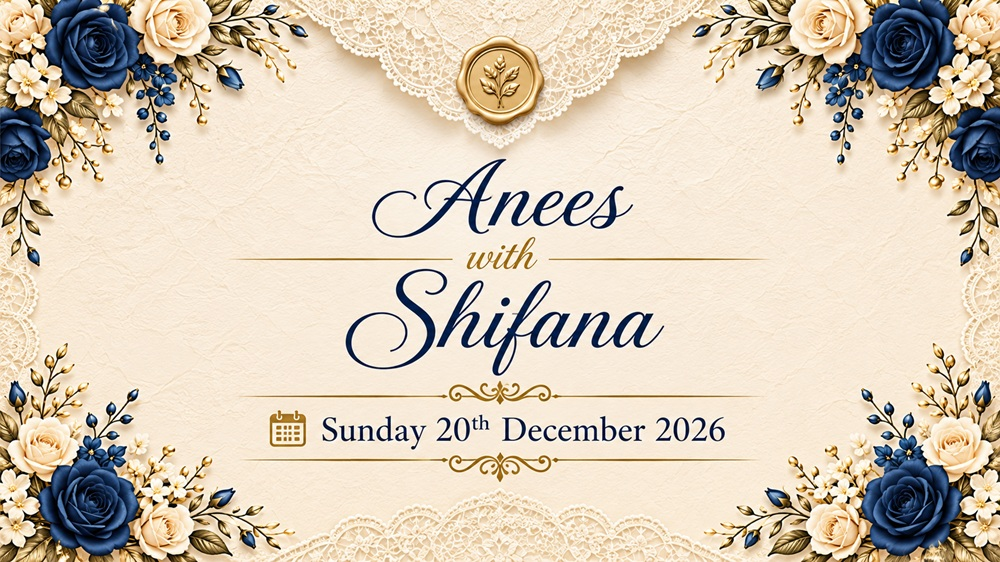
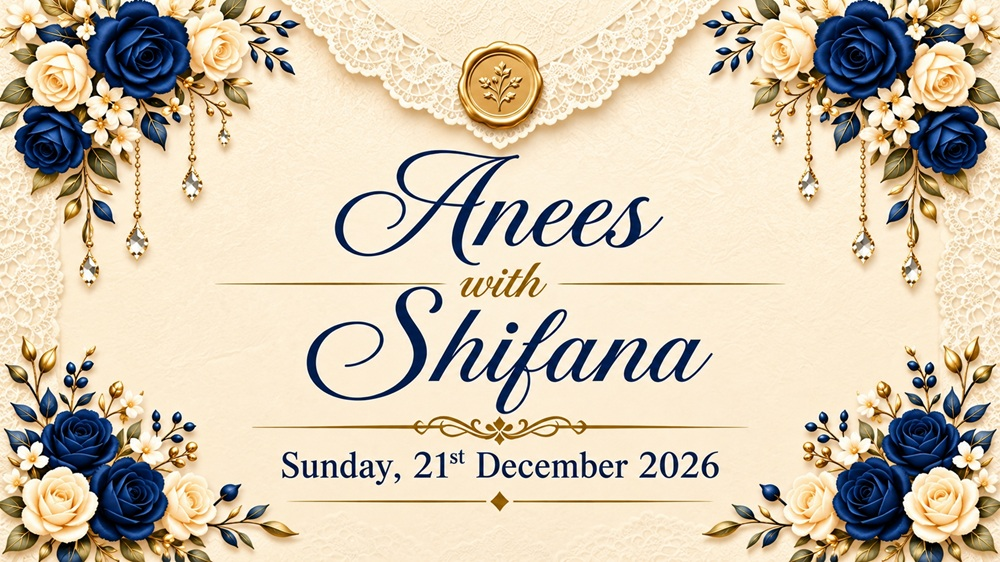
wefwef

diff --git a/index.html b/index.html
@@ -209,13 +209,13 @@
     </div>
 
     <!-- Sharing the Happiness -->
-    <div class="happiness-card reveal">
+    <!-- <div class="happiness-card reveal">
       <svg class="card-corner-sprig" aria-hidden="true">
         <use href="#sprig-motif" />
       </svg>
       <p class="happiness-label">Sharing the Happiness</p>
       <p class="happiness-names">Saheer, Fathima Hiba &amp; Farhan</p>
-    </div>
+    </div> -->
   </section>
 
   <!-- ============ COUNTDOWN ============ -->
